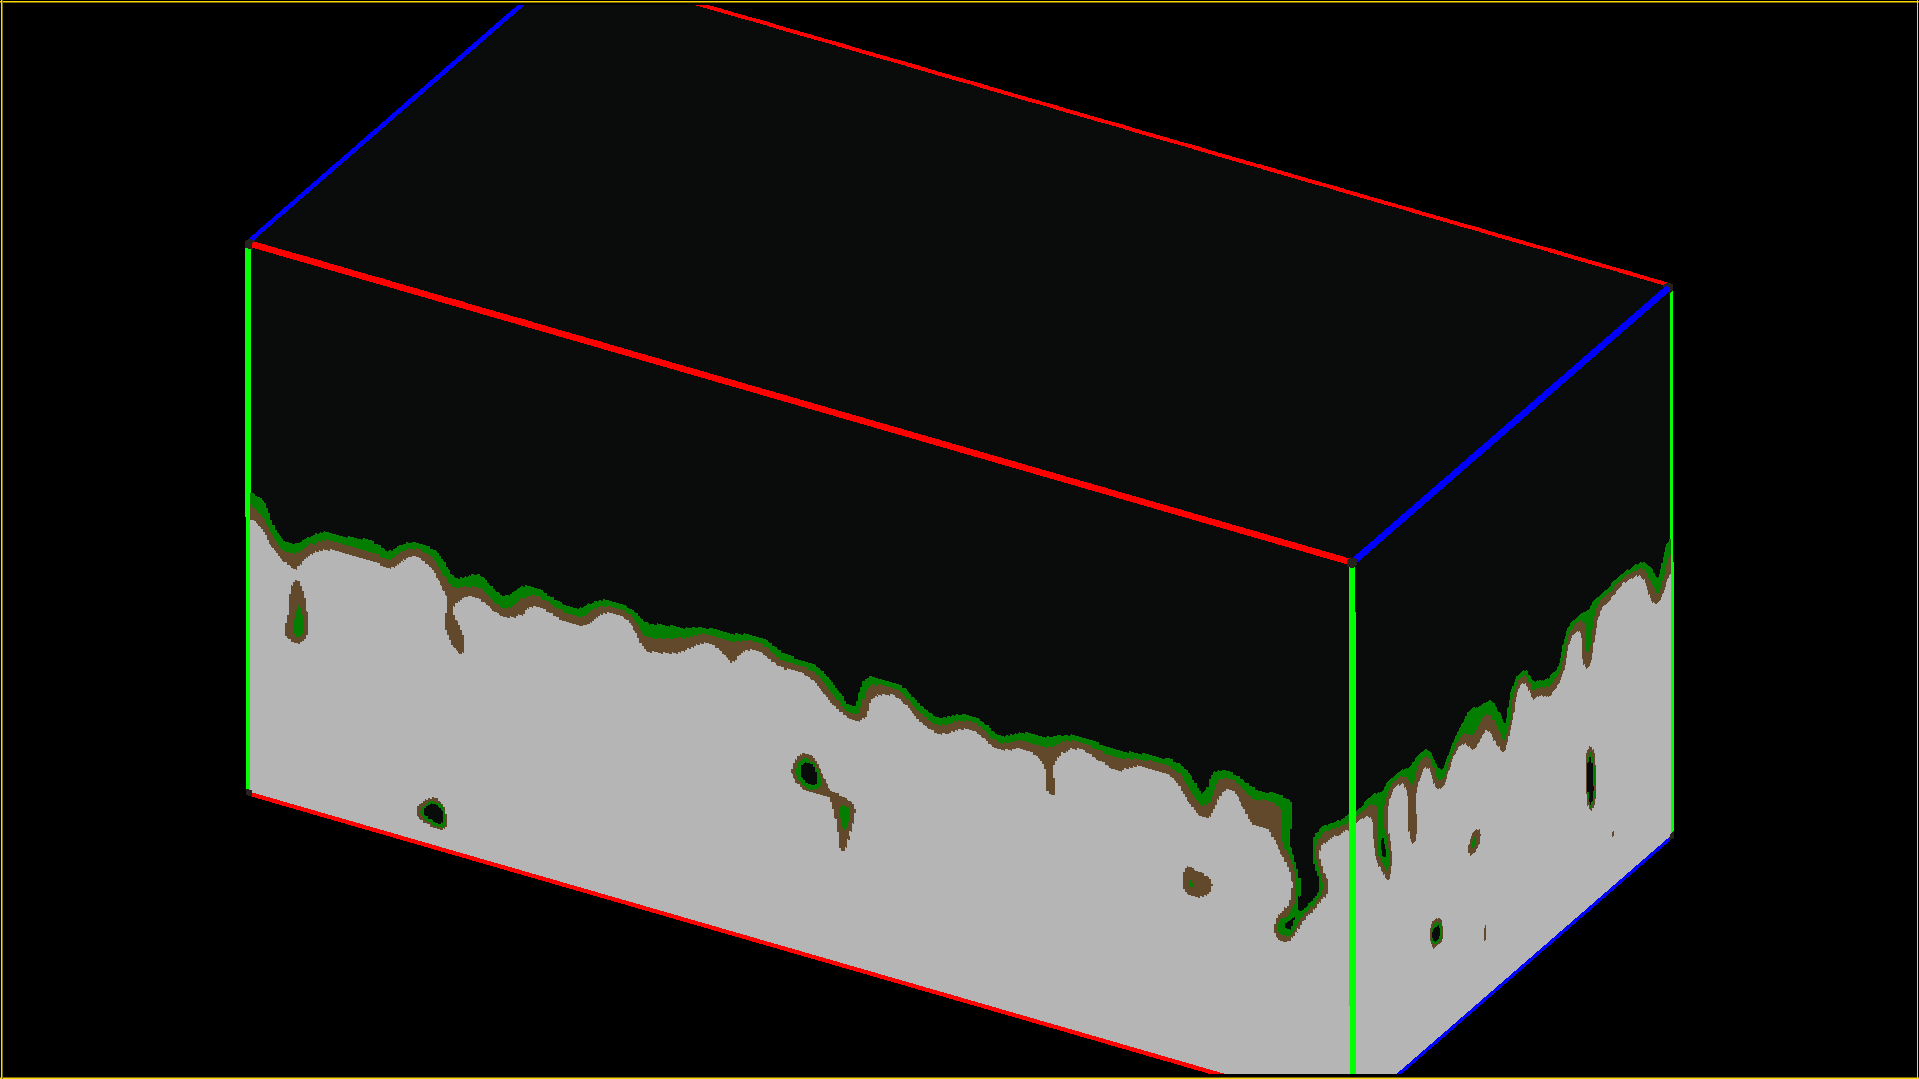
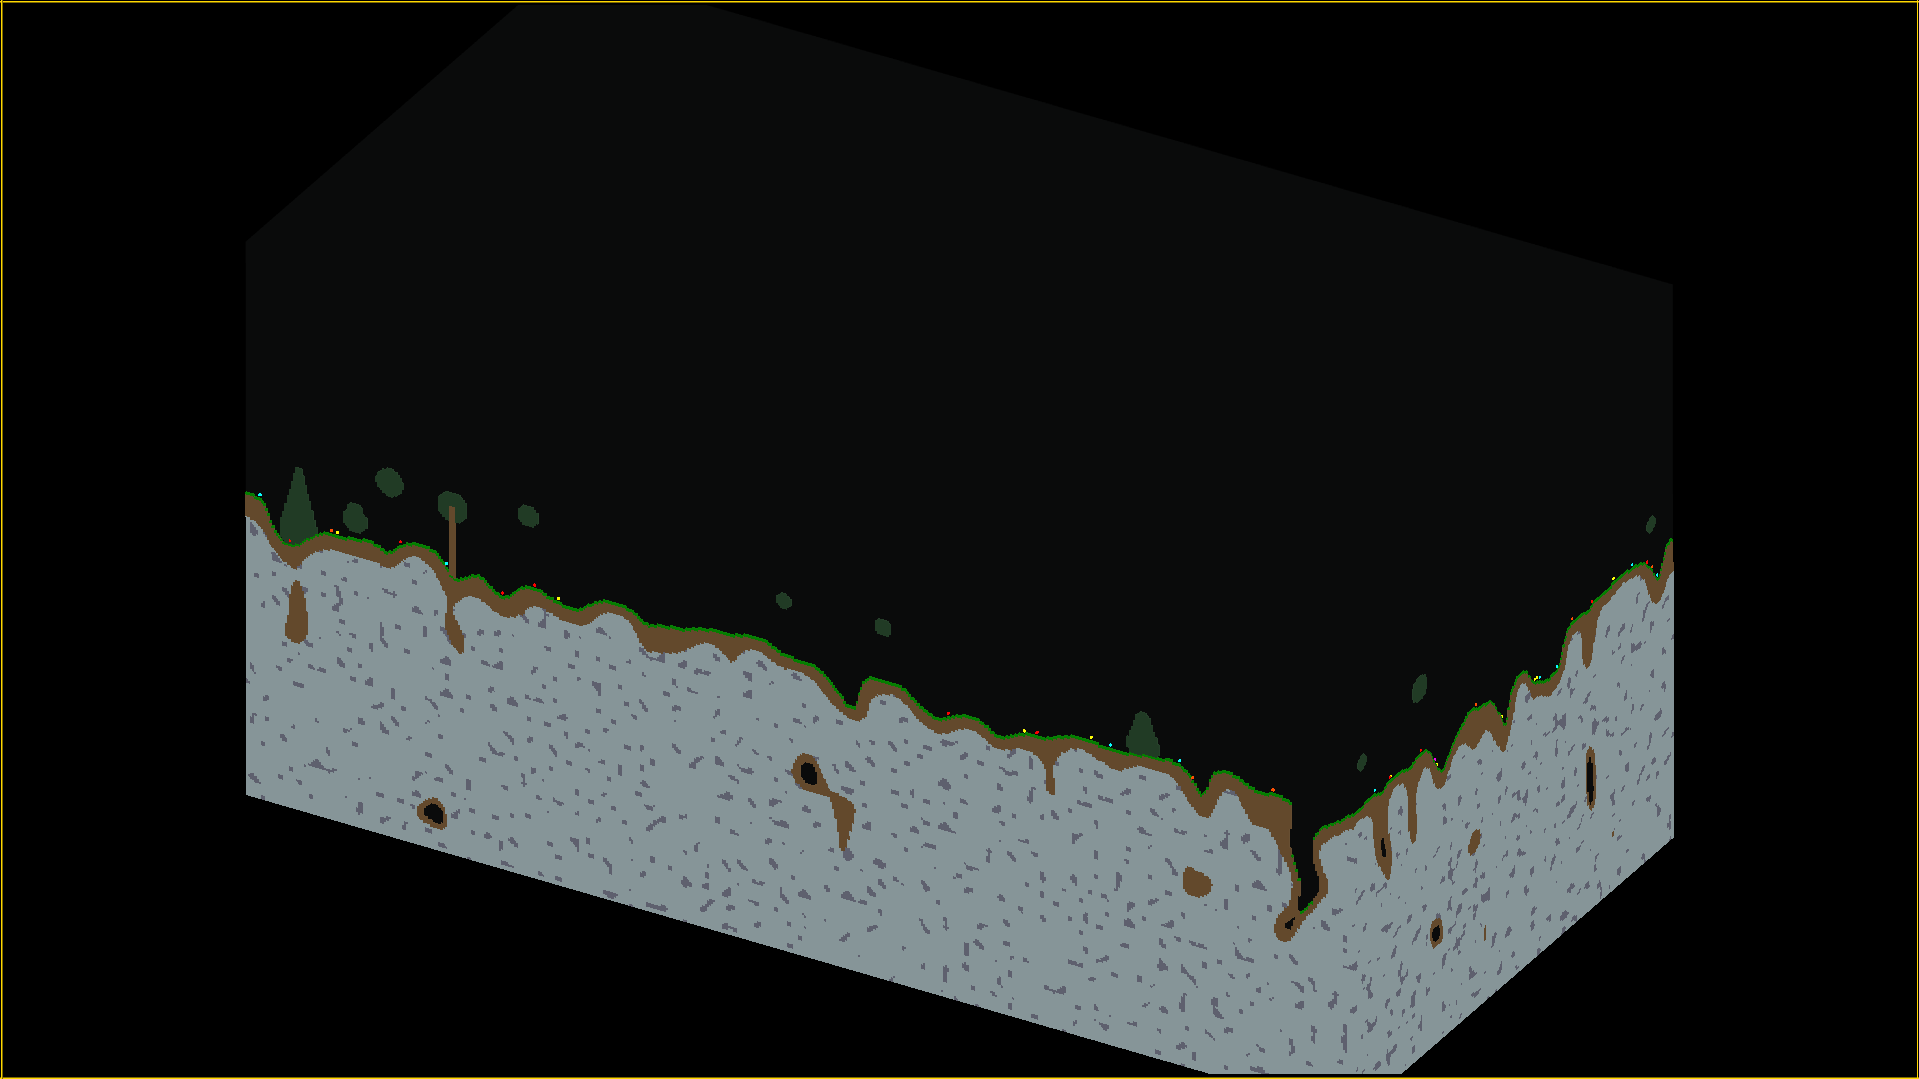
I think I'm done with the castle demo

diff --git a/code/generate.cc b/code/generate.cc
@@ -134,10 +134,10 @@ int main()
 
 
     // railings
-    main_block->draw_line_segment(fe_tower_location + displacement_vectors[index1] + vec(0,5,0), fe_tower_location + displacement_vectors[index2] + vec(0,6.75,0), main_block->get_vox( 21, 255, false) );
-    main_block->draw_line_segment(ba_tower_location + displacement_vectors[index1] + vec(0,5,0), ba_tower_location + displacement_vectors[index2] + vec(0,6.75,0), main_block->get_vox( 21, 255, false) );
-    main_block->draw_line_segment(dc_tower_location + displacement_vectors[index1] + vec(0,5,0), dc_tower_location + displacement_vectors[index2] + vec(0,6.75,0), main_block->get_vox( 21, 255, false) );
-    main_block->draw_line_segment(hg_tower_location + displacement_vectors[index1] + vec(0,5,0), hg_tower_location + displacement_vectors[index2] + vec(0,6.75,0), main_block->get_vox( 21, 255, false) );
+    main_block->draw_cylinder(fe_tower_location + displacement_vectors[index1] + vec(0,5,0), fe_tower_location + displacement_vectors[index2] + vec(0,6.75,0), 1.0, main_block->get_vox( 21, 255, false) );
+    main_block->draw_cylinder(ba_tower_location + displacement_vectors[index1] + vec(0,5,0), ba_tower_location + displacement_vectors[index2] + vec(0,6.75,0), 1.0, main_block->get_vox( 21, 255, false) );
+    main_block->draw_cylinder(dc_tower_location + displacement_vectors[index1] + vec(0,5,0), dc_tower_location + displacement_vectors[index2] + vec(0,6.75,0), 1.0, main_block->get_vox( 21, 255, false) );
+    main_block->draw_cylinder(hg_tower_location + displacement_vectors[index1] + vec(0,5,0), hg_tower_location + displacement_vectors[index2] + vec(0,6.75,0), 1.0, main_block->get_vox( 21, 255, false) );
 
     // increment the indicies for the displacement vectors
     index1++; index2++;
@@ -656,7 +656,7 @@ int main()
 
 
     // railing
-    main_block->draw_line_segment(internal_staircase_location + displacement_vectors[index1] + vec(0,5,0), internal_staircase_location + displacement_vectors[index2] + vec(0,6.75,0), main_block->get_vox( 21, 255, false) );
+    main_block->draw_cylinder(internal_staircase_location + displacement_vectors[index1] + vec(0,5,0), internal_staircase_location + displacement_vectors[index2] + vec(0,6.75,0), 1.0, main_block->get_vox( 21, 255, false) );
 
     // increment the indicies for the displacement vectors
     index1++; index2++;
@@ -685,16 +685,102 @@ int main()
   main_block->draw_quadrilateral_hexahedron(a, b, c, d, e, f, g, h, main_block->get_vox( 15, 255, false) );
 
 
-  //TREES
+// TREES
+
+  // normalize and multiply to make them all the same lengths
+  for(int i = 0; i < 8; i++)
+    displacement_vectors[i] = 1.0f * normalize(displacement_vectors[i]);
+
+  main_block->mask_by_state( 57 );
+  main_block->mask_invert_mask( ); // mask everything but the air
+
+  vec current_tree_location;
+  bool draw_tree = false;
+  int treeheight, trianglewidth;
+
+  std::srand(5);
+
+  for(int treex = 0; treex < 512; treex++)
+  {
+    for(int treez = 0; treez < 256; treez++)
+    {
+
+      if(std::rand()%500 == 1)
+      {// do a tree
+        for(int j = 0; j < 256; j++)
+        {// go down to the first grass-containing cell
+          current_tree_location = vec(treex, 256-j, treez);
+
+          if(main_block->compare_colors(main_block->get_data_by_vector_index(current_tree_location).color, main_block->palette[25]))
+          {
+            draw_tree = true;
+            break;
+          }
+        }
+
+        if(treex > (255 - 60) && treex < (255 + 60) && treez > (127 - 60) && treez < (127 + 60)) draw_tree = false;
+
+        //draw the tree
+        if(draw_tree)
+        {
+          cout << "drawing a tree at " << treex << " " << treez << endl;
+
+          treeheight = std::rand()%5;
+
+          index1 = 0;
+          index2 = 3;
+
+          switch(treeheight)
+          {
+            case 0:
+              main_block->draw_sphere(current_tree_location+vec(0,20,0), 3.0, main_block->get_vox(64, 255, false) );
+              main_block->draw_cylinder(current_tree_location, current_tree_location+vec(0,20,0), 1, main_block->get_vox(21, 255, false) );
+              break;
+            case 1:
+              main_block->draw_sphere(current_tree_location+vec(0,22,0), 4.0, main_block->get_vox(64, 255, false) );
+              main_block->draw_cylinder(current_tree_location, current_tree_location+vec(0,22,0), 1.5, main_block->get_vox(21, 255, false) );
+              break;
+            case 2:
+              main_block->draw_sphere(current_tree_location+vec(0,25,0), 5.0, main_block->get_vox(64, 255, false) );
+              main_block->draw_cylinder(current_tree_location, current_tree_location+vec(0,25,0), 1.5, main_block->get_vox(21, 255, false) );
+              break;
+            case 3:
+              trianglewidth = 9;
+              main_block->draw_cylinder(current_tree_location, current_tree_location+vec(0,28,0), 1.0, main_block->get_vox(21, 255, false) );
+
+              for(int i = 6; i < 36; i+=4)
+              {
+                // main_block->draw_triangle(current_tree_location+vec(0,i,0), current_tree_location+vec(0,i-5,0)+(float)trianglewidth*displacement_vectors[index1], current_tree_location+vec(0,i-5,0)+(float)trianglewidth*displacement_vectors[index2], 2.0, main_block->get_vox(64, 255, false));
+                //
+                // index1+=5; index2+=3;
+                // if(index1 >= 8) index1 = 0;
+                // if(index2 >= 8) index2 = 0;
+
+                main_block->draw_sphere(current_tree_location+vec(0,i,0), trianglewidth, main_block->get_vox(64, 255, false) );
 
 
+                trianglewidth--;
+              }
+              break;
+            case 4:
+              main_block->draw_sphere(current_tree_location+vec(0,32,0), 7.0, main_block->get_vox(64, 255, false) );
+              main_block->draw_cylinder(current_tree_location, current_tree_location+vec(0,32,0), 1.75, main_block->get_vox(21, 255, false) );
+              break;
+            default:
+              break;
+          }
+          draw_tree = false;
+        }
+      }
+    }
+  }
 
 
 
 
 
 //FRAMING
-  bool draw_axes = true;
+  bool draw_axes = false;
   if( draw_axes )
   {
     draw_axes_and_corners();

diff --git a/resources/voraldo/v7.cc b/resources/voraldo/v7.cc
@@ -1345,15 +1345,15 @@ void Voraldo::draw_minecraft_style_terrain( vec offset, vec scale, bool draw, bo
 {
 	PerlinNoise p;
 
-	float grass_threshold = 0.35f;
-	float land_threshold  = 0.45f;
+	// float grass_threshold = 0.35f;
+	float land_threshold  = 0.35f;
 	float rock_threshold  = 0.60f;
 
 	Vox grass_material, land_material, rock_material;
 
 	grass_material = get_vox( 25, 255, false);
 	land_material  = get_vox( 21, 255, false);
-	rock_material  = get_vox( 54, 255, false);
+	rock_material  = get_vox( 59, 255, false);
 
 	float y_scale_factor;
 
@@ -1391,13 +1391,80 @@ void Voraldo::draw_minecraft_style_terrain( vec offset, vec scale, bool draw, bo
 				{
 					draw_point( vec( x, y, z ), land_material, draw, mask );
 				}
-				else if( noise_sample > grass_threshold )
-				{
-					draw_point( vec( x, y, z ), grass_material, draw, mask );
+				// else if( noise_sample > grass_threshold )
+				// {
+				// 	draw_point( vec( x, y, z ), grass_material, draw, mask );
+				// }
+			}
+		}
+	}
+
+	// grass pass
+
+	vec current_location;
+
+	for(int x = 0; x < 512; x++)
+	{
+		for(int z = 0; z < 256; z++)
+		{
+			for(int y = 256; y > 0; y--)
+			{
+				current_location = vec(x,y,z);
+				if(compare_colors(get_data_by_vector_index(current_location).color, land_material.color))
+				{//surface layer
+					set_data_by_vector_index(current_location, grass_material);
+					break;
 				}
 			}
 		}
 	}
+
+
+	// flowers
+
+	for(int x = 0; x < 512; x++)
+	{
+		for(int z = 0; z < 256; z++)
+		{
+			for(int y = 256; y > 0; y--)
+			{
+				current_location = vec(x,y,z);
+				if(compare_colors(get_data_by_vector_index(current_location).color, grass_material.color))
+				{//surface layer
+					if(std::rand()%500 == 69)
+					{
+						set_data_by_vector_index(current_location+vec(0,2,0), get_vox(43,255,false));
+					}
+					else if(std::rand()%100 == 69)
+					{
+						set_data_by_vector_index(current_location+vec(0,2,0), get_vox(41,255,false));
+					}
+					else if(std::rand()%100 == 23)
+					{
+						set_data_by_vector_index(current_location+vec(0,2,0), get_vox(11,255,false));
+					}
+					else if(std::rand()%100 == 10)
+					{
+						set_data_by_vector_index(current_location+vec(0,2,0), get_vox(1,255,false));
+					}
+					else if(std::rand()%100 == 10)
+					{
+						set_data_by_vector_index(current_location+vec(0,2,0), get_vox(7,255,false));
+					}
+					break;
+				}
+			}
+		}
+	}
+
+	// add some features to the stone layer
+
+	mask_by_state(59);
+	mask_invert_mask();
+
+	draw_perlin_noise(0.2, 0.3, get_vox(56, 255, false));
+
+	mask_unmask_all();
 }
 
 
@@ -1791,11 +1858,11 @@ bool Voraldo::compare_colors(RGBA first, RGBA second)
   unsigned char blue1 = first.blue;
   unsigned char blue2 = second.blue;
 
-  unsigned char alpha1 = first.alpha;
-  unsigned char alpha2 = second.alpha;
+  // unsigned char alpha1 = first.alpha;
+  // unsigned char alpha2 = second.alpha;
 
 
-  return ( ( red1 == red2 ) && ( green1 == green2 ) && ( blue1 == blue2 ) && ( alpha1 == alpha2 ) );
+  return ( ( red1 == red2 ) && ( green1 == green2 ) && ( blue1 == blue2 ) ); // && ( alpha1 == alpha2 ) );
 }
 
 

diff --git a/resources/voraldo/v7.h b/resources/voraldo/v7.h
@@ -94,7 +94,7 @@ class Voraldo
 			Vox get_data_by_vector_index(vec index);
 			//return the state value for the selected index... this is going to take a lot more time now
 
-			void set_data_by_vector_index(vec index, Vox set, bool draw, bool mask, bool force = false);
+			void set_data_by_vector_index(vec index, Vox set, bool draw=true, bool mask=false, bool force = false);
 			//set the data at the selected index, also setting the mask if the
 			//mask variable is true
 

diff --git a/code/view.cc b/code/view.cc
@@ -219,7 +219,7 @@ void generate_points()
 
 			cout << "\rgenerate_points() produced " << Index << " points";
 
-			offsets[current_offset] = x;
+			offsets[current_offset] = x + increment_offset;
 			current_offset++;
 
 		}
